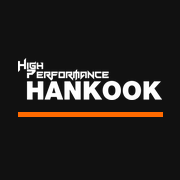
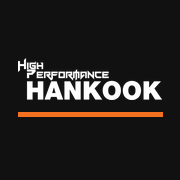
Switch team orange to #F37021
Claude-Session: https://claude.ai/code/session_01HdkdaJN5vZ3w9mkC2EQYKi

Changed region(s): [[0.0833, 0.6111, 0.9167, 0.6667]]

diff --git a/style.css b/style.css
@@ -4,9 +4,9 @@
   --line: #E5E5E5;
   --soft: #F4F4F4;
   /* Team colour — change these three lines to retheme the whole app */
-  --accent: #FF6A00;        /* team orange */
-  --accent-soft: #FFE9D9;   /* light orange for "getting close" */
-  --accent-ink: #8F3A00;    /* dark orange text on light orange */
+  --accent: #F37021;        /* team orange (Hermès-style) */
+  --accent-soft: #FDEBDD;   /* light orange for "getting close" */
+  --accent-ink: #8A3A0A;    /* dark orange text on light orange */
   --on-accent: #111111;     /* text on orange (black reads better than white) */
   --red-ink: #A1121F;       /* delete / warnings */
 }
